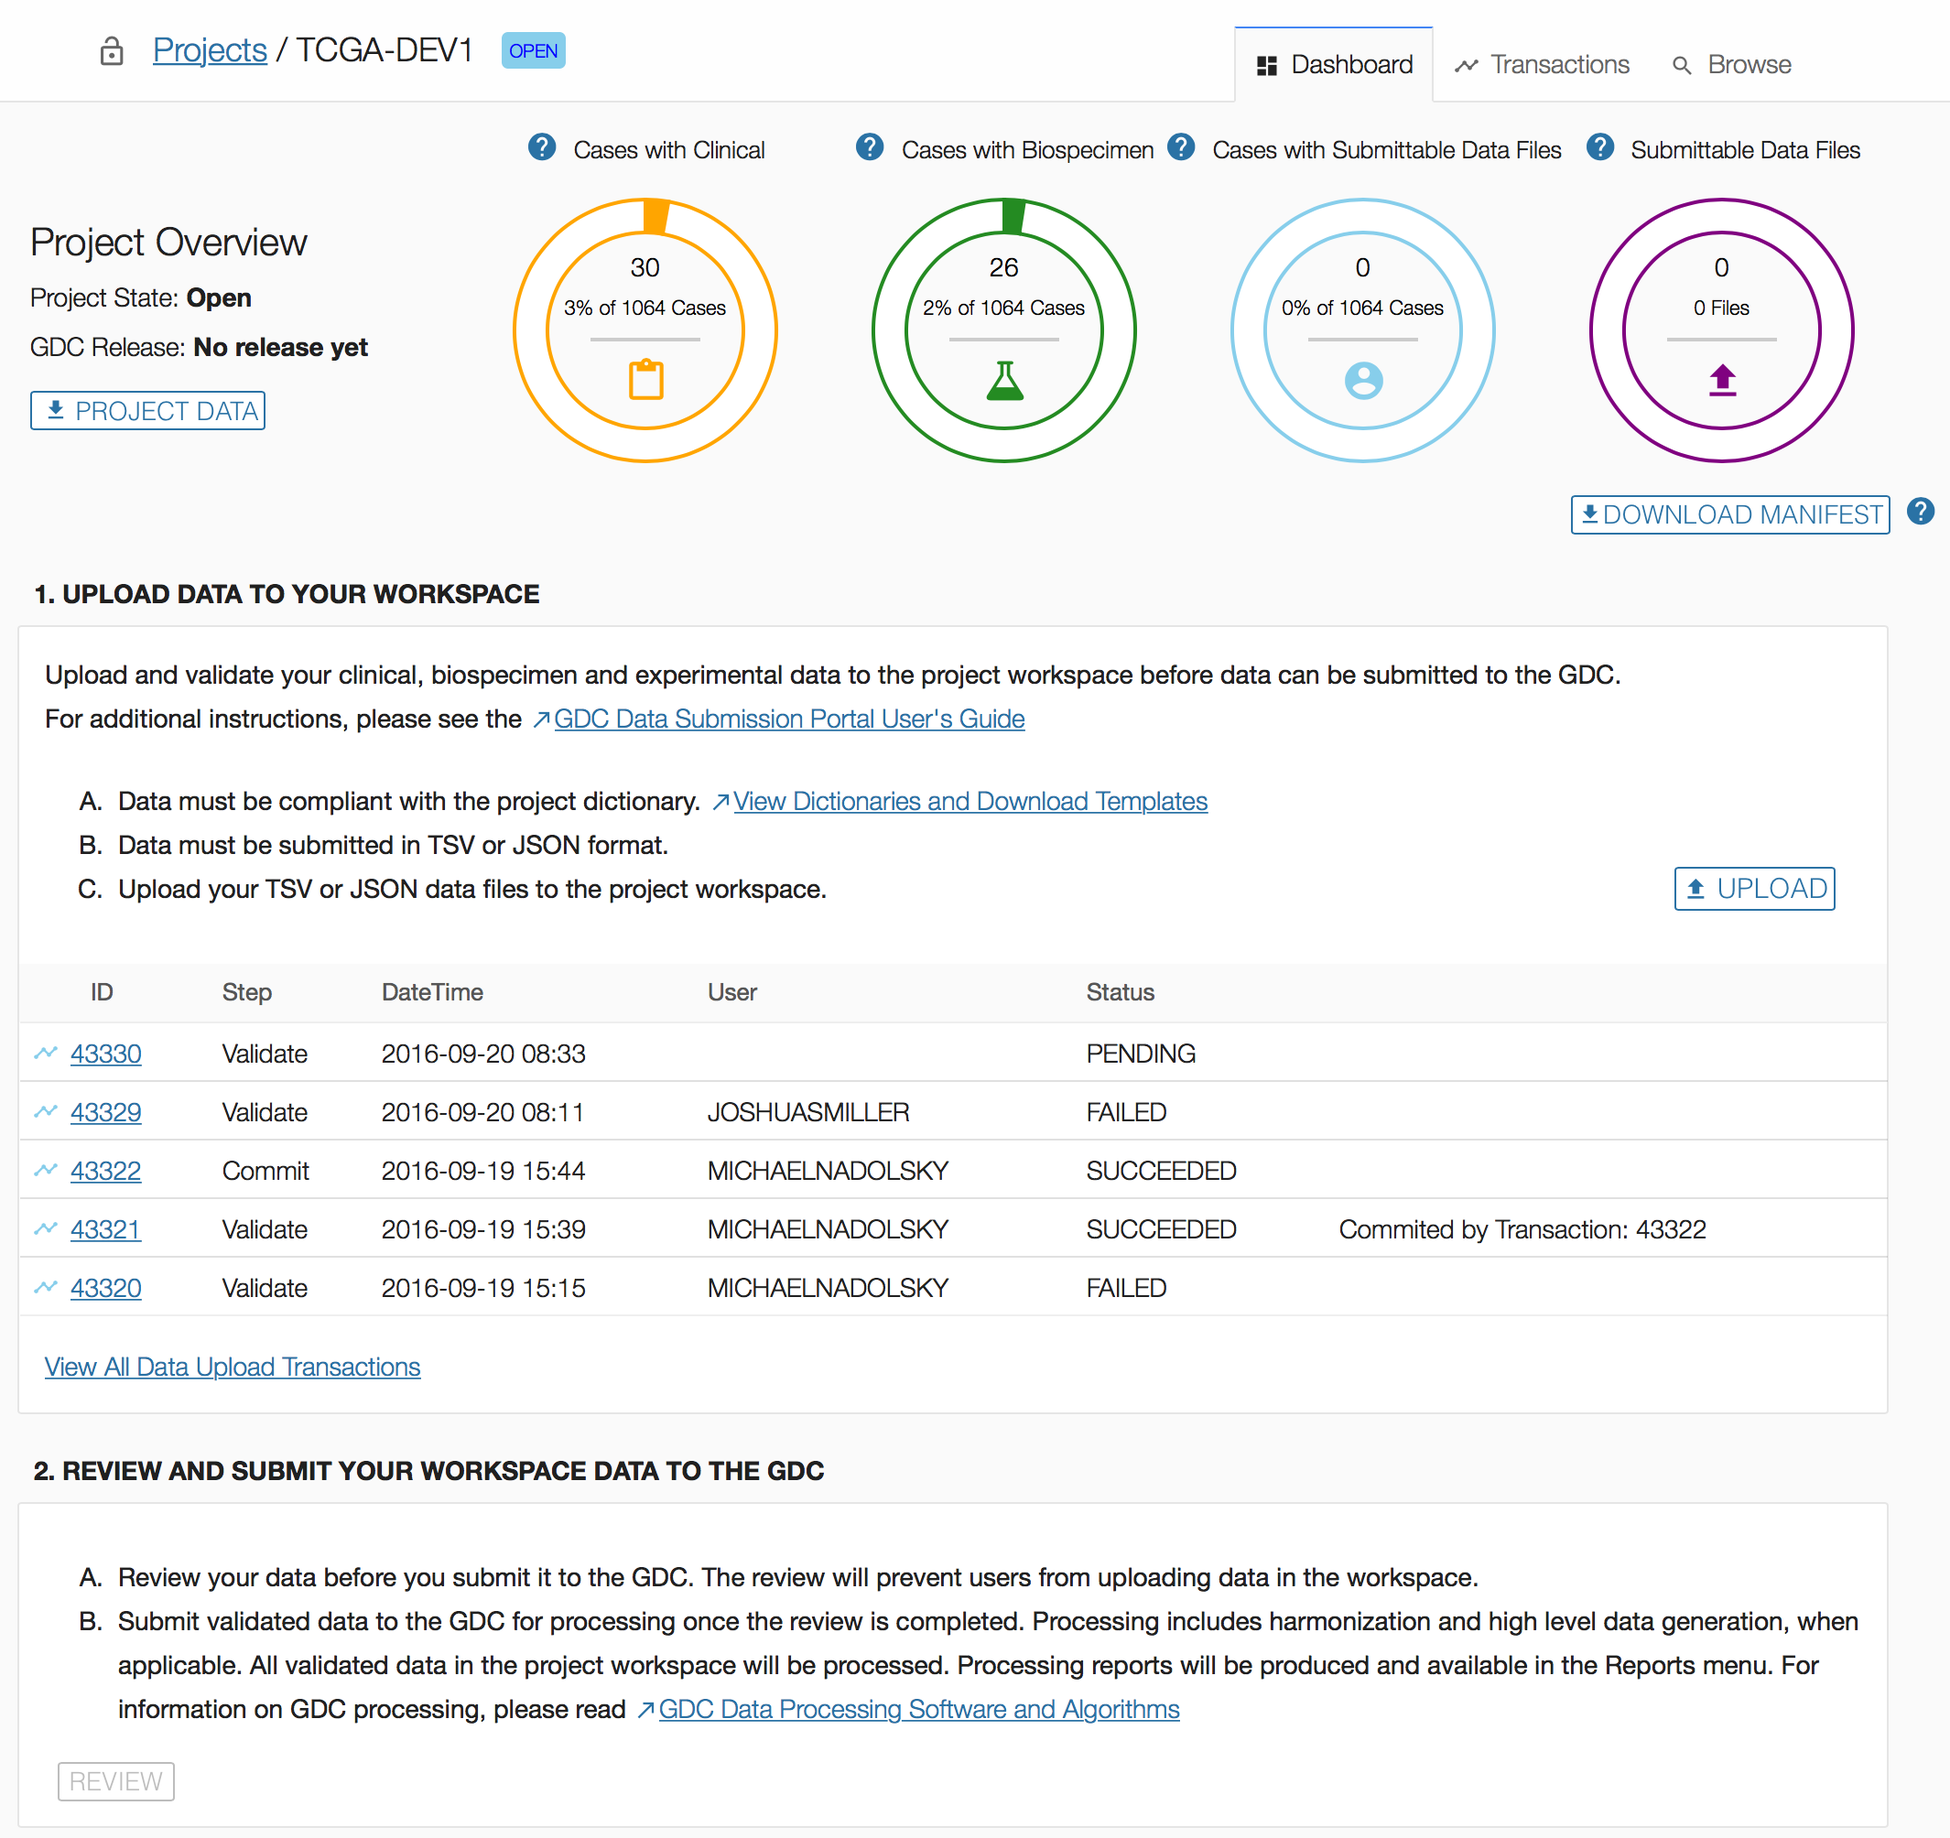
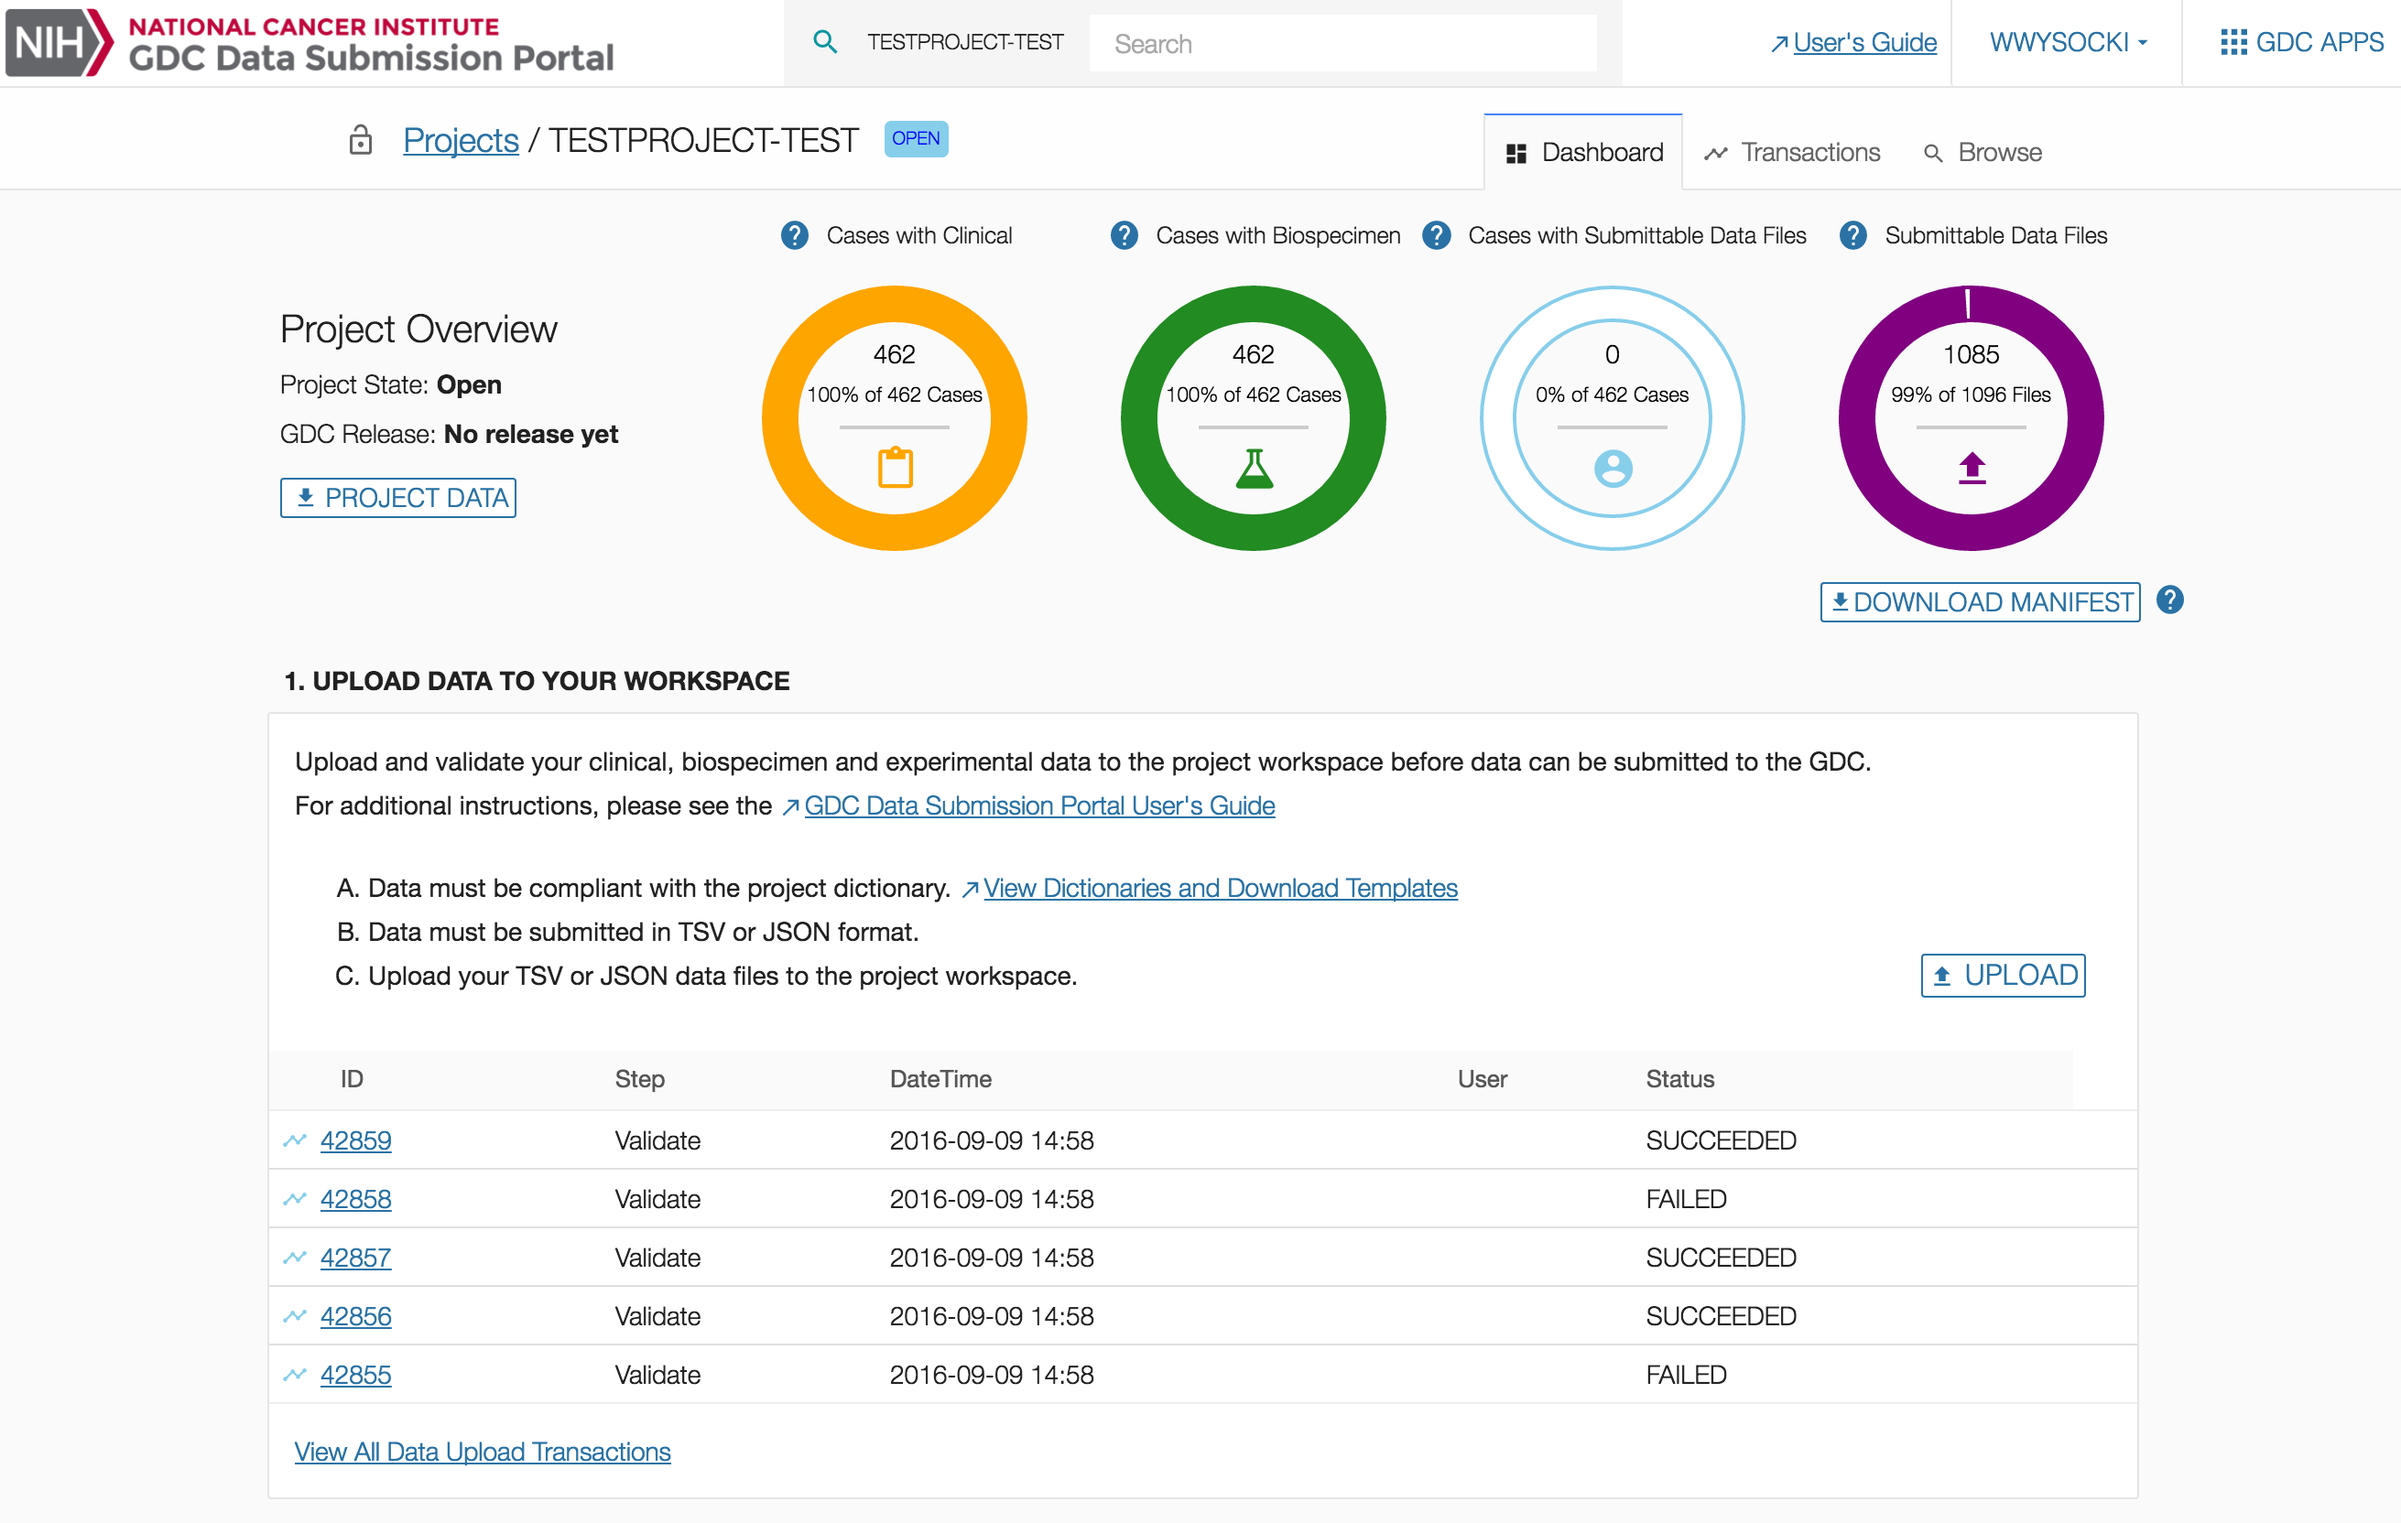
Miscellaneous Changes to Submission Portal Doc

diff --git a/docs/Data_Submission_Portal/Users_Guide/Getting_Started.md b/docs/Data_Submission_Portal/Users_Guide/Getting_Started.md
@@ -6,12 +6,12 @@ The National Cancer Institute (NCI) Genomic Data Commons (GDC) Data Submission P
 
 The GDC Data Submission Portal is a platform that allows researchers to submit and release data into the GDC. The key features of the GDC Data Submission Portal are:
 
-* __Upload and Validate Data__: Upload project data to the GDC project workspace. The GDC will validate the data against the [GDC Data Dictionary](https://gdc-docs.nci.nih.gov/Data_Dictionary/).
-* __Review and Submit Data__: Review project data, which will lock the project to ensure that additional data cannot be uploaded while in review. Once the review is complete, the data can be submitted to the GDC for processing through the [GDC Harmonization Process](https://gdc.nci.nih.gov/submit-data/gdc-data-harmonization).
-* __Release Data__: Release data to the research community for access through [GDC Data Access Tools](https://gdc.nci.nih.gov/access-data/data-access-processes-and-tools).
-* __Download Data__: Download data that has been uploaded into the project workspace for review or update. Data can then be re-uploaded before it is released for access through [GDC Data Access Tools](https://gdc.nci.nih.gov/access-data/data-access-processes-and-tools).
-* __Browse Data__: Browse data that has been uploaded to the project workspace to ensure that the project is ready for processing.
-* __Status and Alerts__: Obtain visual cues to easily identify incomplete submissions.
+* __Upload and Validate Data__: Project data can be uploaded to the GDC project workspace. The GDC will validate the data against the [GDC Data Dictionary](https://gdc-docs.nci.nih.gov/Data_Dictionary/).
+* __Review and Submit Data__: Prior to submission, data can be reviewed to check for accuracy. Once the review is complete, the data can be submitted to the GDC for processing through [Data Harmonization](https://gdc.nci.nih.gov/submit-data/gdc-data-harmonization).
+* __Release Data__: After harmonization, data can be released to the research community for access through [GDC Data Access Tools](https://gdc.nci.nih.gov/access-data/data-access-processes-and-tools).
+* __Download Data__: Data that has been uploaded into the project workspace can be downloaded for review or update. Data can then be re-uploaded before it is released for access through [GDC Data Access Tools](https://gdc.nci.nih.gov/access-data/data-access-processes-and-tools).
+* __Browse Data__: Data that has been uploaded to the project workspace can be browsed to ensure that the project is ready for processing.
+* __Status and Alerts__: Visual cues are implemented to easily identify incomplete submissions.
 
 
 ## Key Features
@@ -21,15 +21,15 @@ To submit data to the GDC, the user will prepare the data and upload it to the p
 
 The main categories of data that can be uploaded include:
 
-* Clinical Data: Elements such as gender, age, diagnosis, etc. as defined in the GDC Data Dictionary.
-* Biospecimen Data: Information about entities such as samples, aliquots, etc. as defined in the GDC Data Dictionary.
-* Submittable Data Files: Sequencing data such as BAM and FASTQ files, pathology slide images, and other experimental data collected by the study.
+* __Clinical Data__: Elements such as gender, age, diagnosis, etc. as defined in the GDC Data Dictionary.
+* __Biospecimen Data__: Information about entities such as samples, aliquots, etc. as defined in the GDC Data Dictionary.
+* __Submittable Data Files__: Sequencing data such as BAM and FASTQ files, pathology slide images, and other experimental data collected by the study.
 
-By using the [GDC Data Dictionary Viewer](../../Data_Dictionary/viewer.md), the minimum field requirements can be identified for each of the three categories listed above.
+The [GDC Data Dictionary Viewer](../../Data_Dictionary/viewer.md) outlines the minimum field requirements for each of the three categories listed above.
 
 ### Review and Submit Data
 
-Once data is uploaded to the project workspace, it should be reviewed to ensure that the data is ready for processing through the [GDC Harmonization Process](https://gdc.nci.nih.gov/submit-data/gdc-data-harmonization). The review will lock the project to ensure that additional data cannot be uploaded while in review. During this period the data can be browsed or downloaded in the Data Submission Portal.
+Once data is uploaded to the project workspace, it can be reviewed to ensure that the data is ready for processing through the [GDC Harmonization Process](https://gdc.nci.nih.gov/submit-data/gdc-data-harmonization). The review will lock the project to ensure that additional data cannot be uploaded while in review. During this period the data can be browsed or downloaded in the Data Submission Portal.
 
 If the project is ready for processing, data can be submitted to the GDC. If the project is not ready for processing, the project can be re-opened. This will allow for additional data to be uploaded to the project workspace.
 

diff --git a/docs/Data_Submission_Portal/Users_Guide/Submit_Release.md b/docs/Data_Submission_Portal/Users_Guide/Submit_Release.md
@@ -11,13 +11,9 @@ This chapter will focus on the following features:
 
 ## Review and Submit
 
-When data is uploaded to the project workspace (see previous section: [Upload Data](Upload_Data.md), the submitter should review the data to ensure that it is ready for processing by the GDC ([Harmonization Process](https://gdc.nci.nih.gov/submit-data/gdc-data-harmonization)).
+When data is uploaded to the project workspace (see previous section: [Upload Data](Upload_Data.md), the submitter should review the data to ensure that it is ready for processing by the GDC ([Harmonization Process](https://gdc.nci.nih.gov/submit-data/gdc-data-harmonization)). The review will lock the project and prevent users from uploading more data. During this period, the submitter or project owner can browse the data in the Submission Portal or download it.
 
-The review will lock the project and prevent users from uploading more data. During this period, the submitter or project owner can browse the data in the Submission Portal or download it.
-
-If the project is ready for processing, the submitter or project owner will submit data to the GDC.
-
-If the project is not ready for processing, the submitter or project owner can re-open it. Then the submitter will be able to upload more data to the project workspace.
+If the project is ready for processing, the submitter or project owner will submit data to the GDC. If the project is not ready for processing, the submitter or project owner can re-open it. Then the submitter will be able to upload more data to the project workspace.
 
 Submitters are requested to submit their data to the GDC within six months from the first upload to the project workspace.
 
@@ -39,11 +35,15 @@ Once the user clicks on "Review", the project state will change to "REVIEW":
 
 ### Submit to the GDC
 
-The "Submit" button is available only if the project is in "REVIEW" state. At this point, the user can decide whether to re-open the project to upload more data or to submit data to the GDC.
+The "Submit" button is available only if the project is in "REVIEW" state. At this point, the user can decide whether to re-open the project to upload more data or to submit data to the GDC. When the project is in "REVIEW" the following panel appears on the dashboard:
+
+
+
+[![GDC Submission Submit Tab](images/GDC_Submission_Submit_Release_Submit_tab_2.png)](images/GDC_Submission_Submit_Release_Submit_tab_2.png "Click to see the full image.")
 
 Once the user submits data to the GDC, they __cannot upload additional data until the harmonization process is complete__.
 
-[![GDC Submission Submit Tab](images/GDC_Submission_Submit_Release_Submit_tab.png)](images/GDC_Submission_Submit_Release_Submit_tab.png "Click to see the full image.")
+[![GDC Submission Submission Tab](images/GDC_SUBMIT_TO_GDC.png)](images/GDC_SUBMIT_TO_GDC.png "Click to see the full image.")
 
 When the user clicks on the action "SUBMIT TO GDC" in panel 2 of the dashboard, the following Submit popup is displayed:
 
@@ -61,7 +61,7 @@ Upon release, harmonized data will be available to GDC users through the [GDC Da
 
 **Note:** To release data to the GDC Data Portal, the user must have release privileges.
 
-[![GDC Submission Release Tab](images/GDC_Submission_Submit_Release_Release_tab.png)](images/GDC_Submission_Submit_Release_Release_tab.png "Click to see the full image.")
+[![GDC Submission Release Tab](images/GDC_Submission_Landing_Submitter_3.png)](images/GDC_Submission_Landing_Submitter_3.png "Click to see the full image.")
 
 When the user clicks on the action "Release", the following Release popup is displayed:
 

diff --git a/docs/Data_Submission_Portal/Users_Guide/Dashboard.md b/docs/Data_Submission_Portal/Users_Guide/Dashboard.md
@@ -4,7 +4,8 @@
 
 The GDC Data Submission Portal dashboard provides details about a specific project.
 
-[![GDC Submission Dashboard Page](images/GDC_Submission_Dashboard.png)](images/GDC_Submission_Dashboard.png "Click to see the full image.")
+[![GDC Submission Dashboard Page](images/GDC_Submission_Dashboard_2.png)](images/GDC_Submission_Dashboard_2.png "Click to see the full image.")
+[![GDC Submission Dashboard Page-2](images/GDC_Submission_Dashboard_3.png)](images/GDC_Submission_Dashboard_3.png "Click to see the full image.")
 
 The dashboard contains various visual elements to guide the user through all stages of submission, from viewing the [Data Dictionary](https://gdc-docs.nci.nih.gov/Data_Dictionary/) in support of data upload and validation to releasing a project.
 
@@ -19,7 +20,7 @@ The remaining part of the top section of the dashboard is broken down into four 
 * __Cases with Biospecimen__: Details the number of cases for which biospecimen data has been uploaded.
 * __Cases with Submittable Data Files__: Details the number of cases for which experimental data has been uploaded.
 * __Submittable Data Files__: Details the number of files uploaded through the GDC Data Transfer Tool. For more information on this chart, please refer to [File Status Lifecycle](Submission_Workflow.md#file-status-life-cycle).
-The "DOWNLOAD MANIFEST" button below this chart allows the users to download a manifest for registered files in this project that have not yet been uploaded.
+The "DOWNLOAD MANIFEST" button below this chart allows the user to download a manifest for registered files in this project that have not yet been uploaded.
 
 These charts are constantly updated to reflect the current state of the selected project.
 
